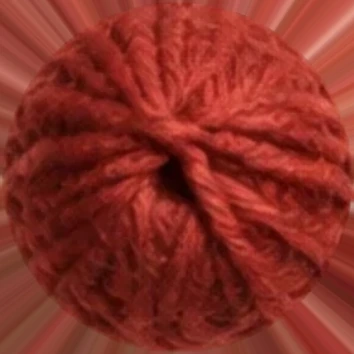
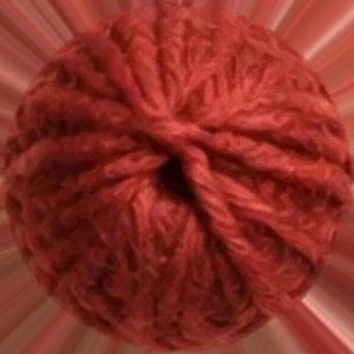
Matassa: la maschera della palla segue la sagoma rossa vera, pixel per pixel, cosi' nessun pezzo di lana resta fermo al bordo (#26)
Claude-Session: https://claude.ai/code/session_01K8S9kDcMmADtdHMs7poTsz

diff --git a/assets/js/matassa.js b/assets/js/matassa.js
@@ -50,7 +50,7 @@
     var nome = verticale && verticale.matches ? 'stretto' : 'largo', T = TAGLI[nome];
     if (scena && scena.nome === nome) return;
     Promise.all([carica(DIR + nome + '-base.webp?v=7'), carica(DIR + nome + '-filo.webp?v=7'), carica(DIR + nome + '-tempo.png?v=7'),
-                 carica(DIR + nome + '-palla.webp?v=1'), carica(DIR + nome + '-palla-maschera.png?v=2')]).then(function (r) {
+                 carica(DIR + nome + '-palla.webp?v=2'), carica(DIR + nome + '-palla-maschera.png?v=3')]).then(function (r) {
       var fp = pixel(r[1], T.W, T.H), tp = pixel(r[2], T.W, T.H);
       cBase.width = cFilo.width = T.W; cBase.height = cFilo.height = T.H;
       var out = cFilo.getContext('2d').createImageData(T.W, T.H), od = out.data;
